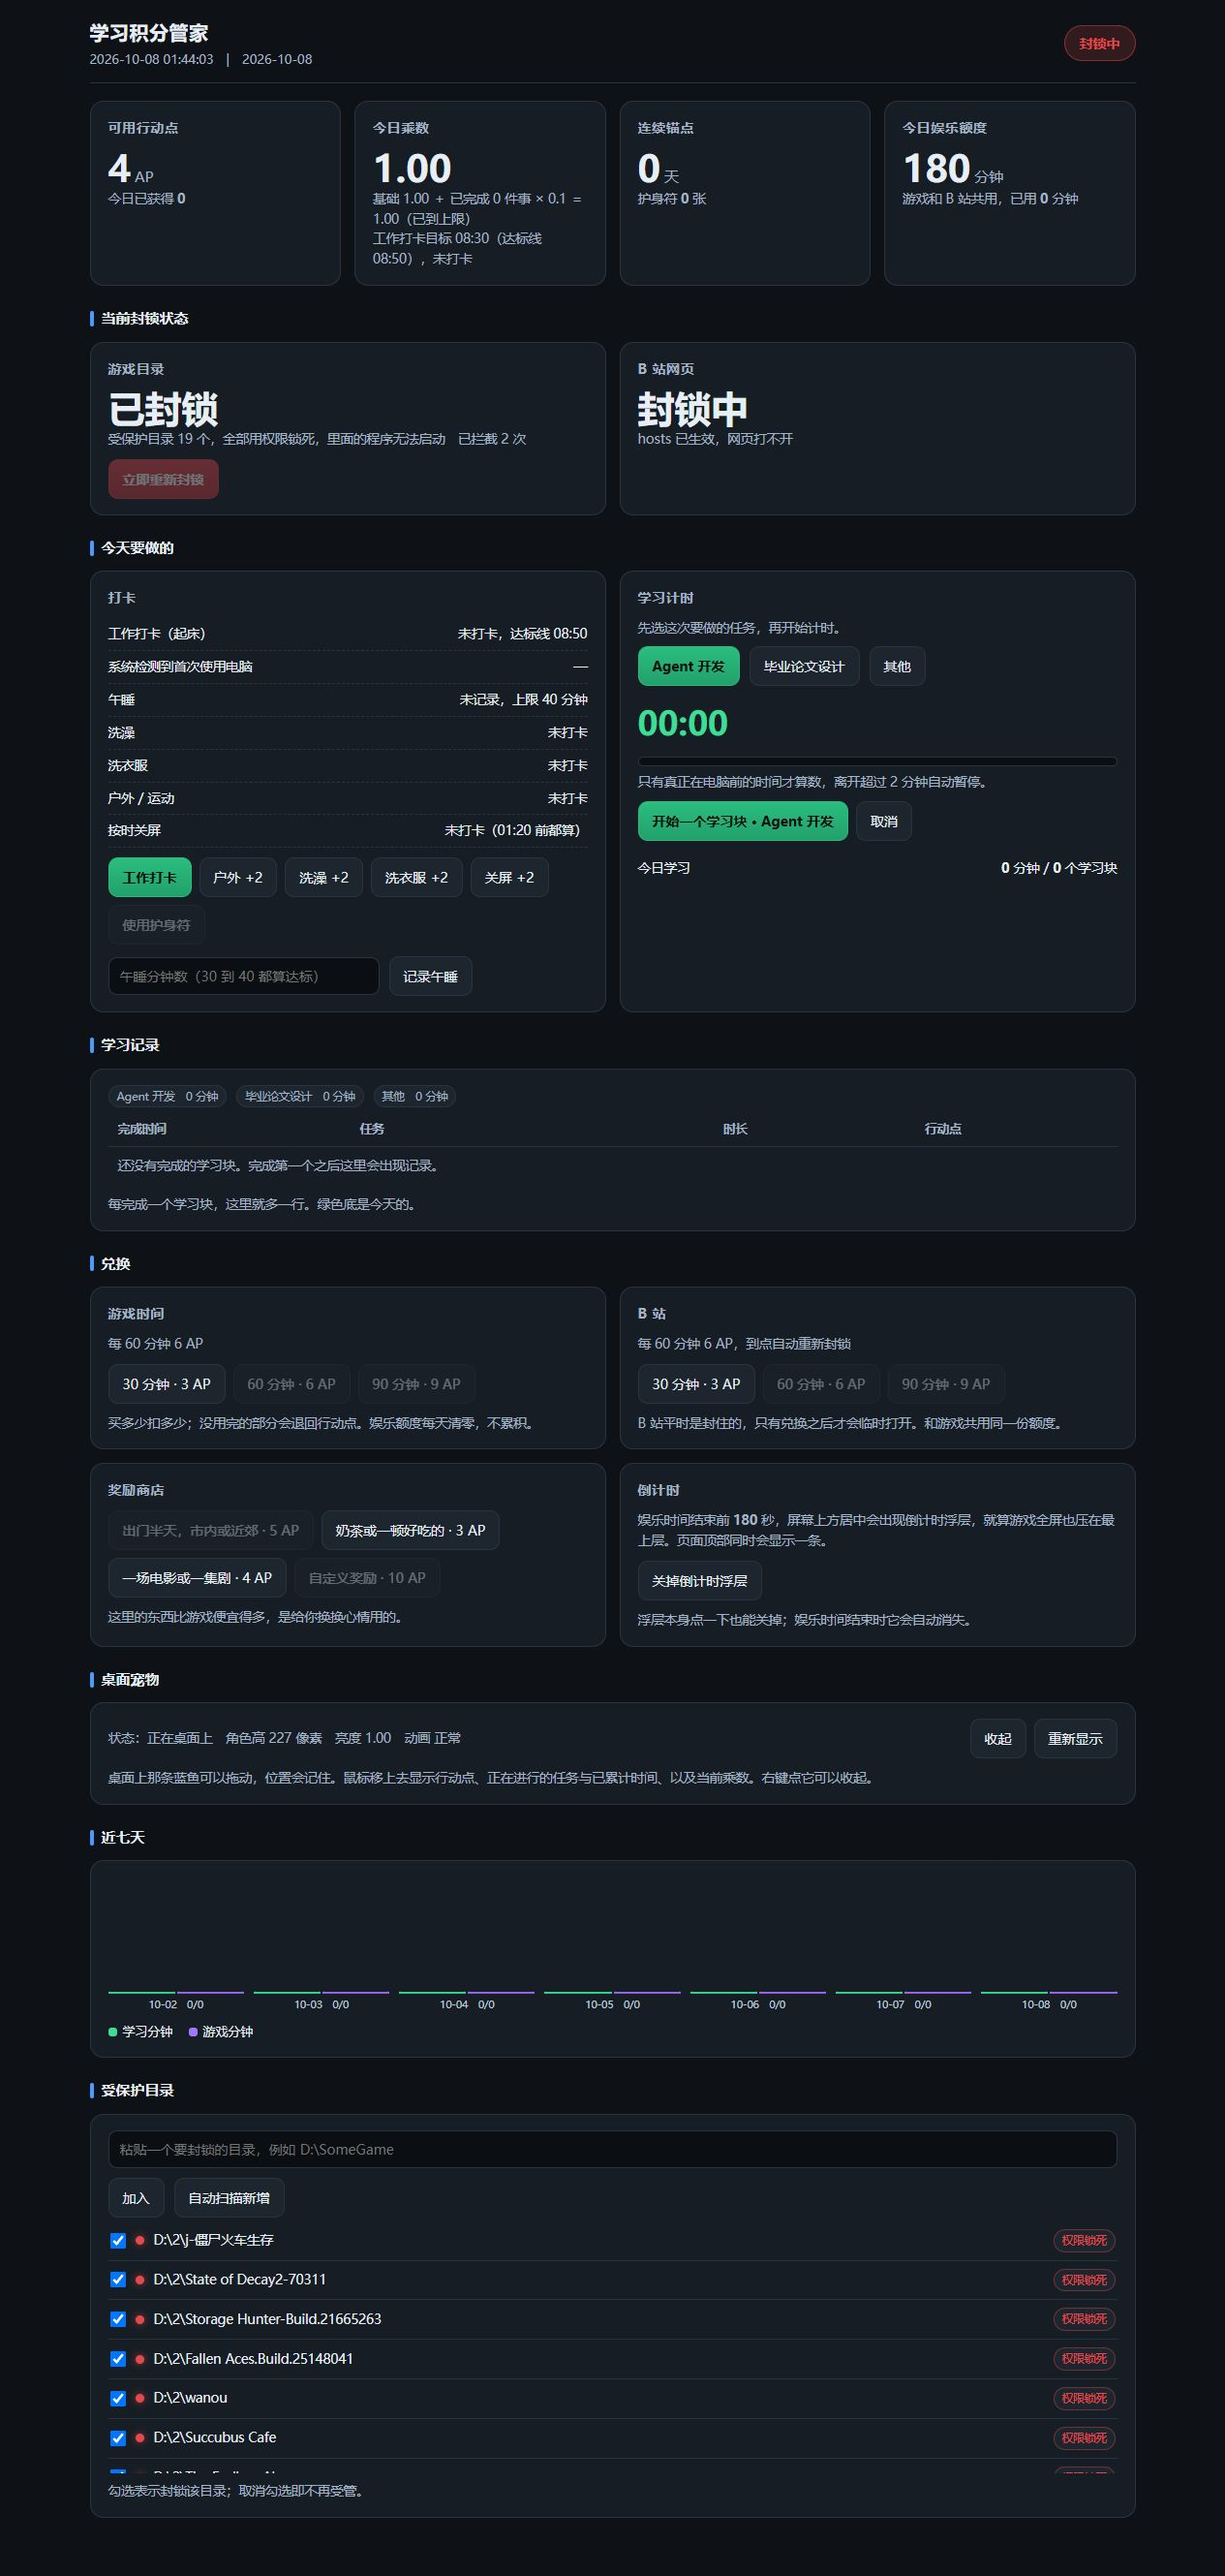
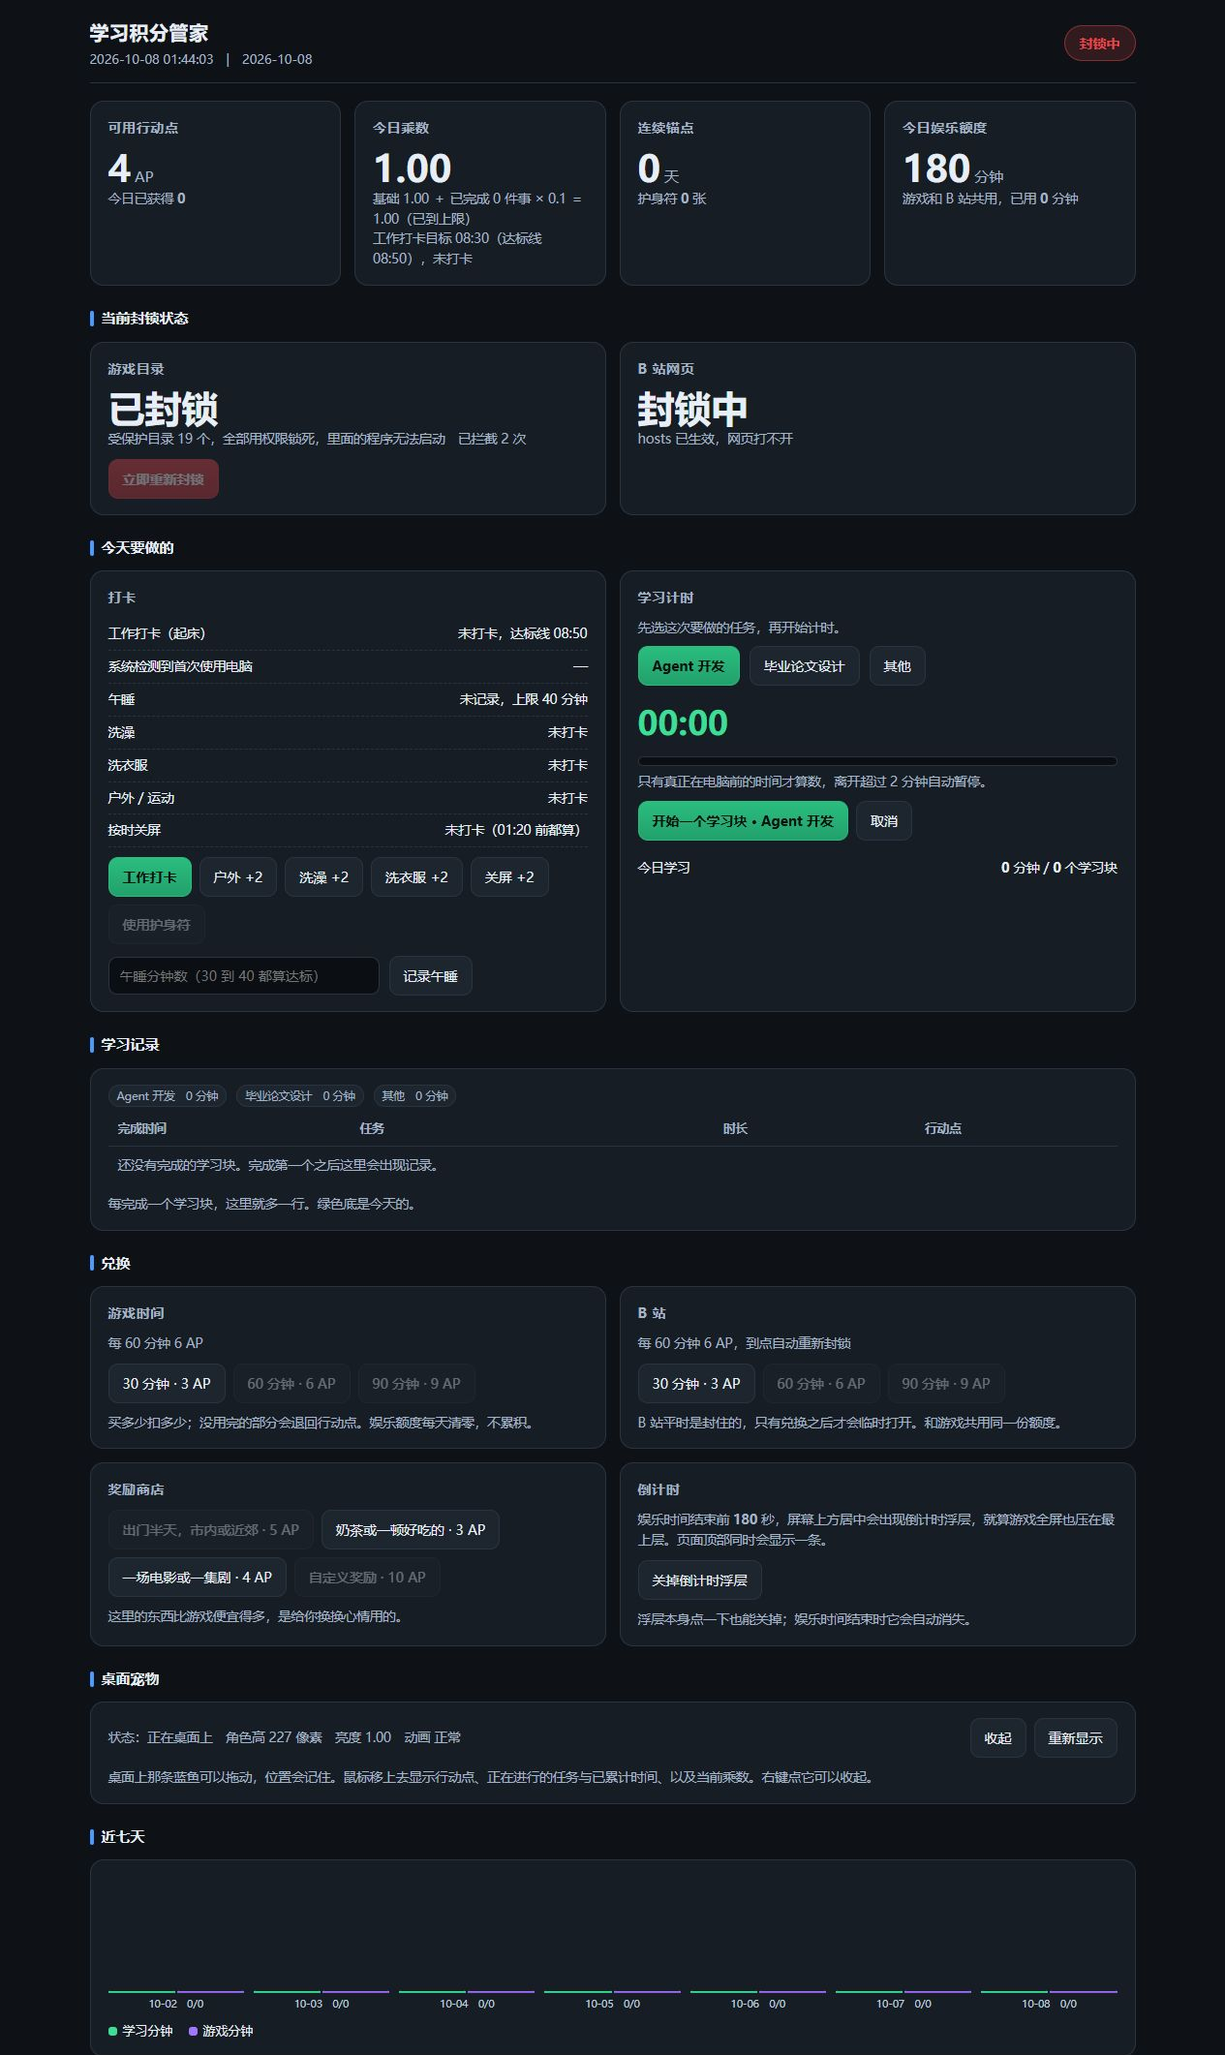
补充截图演示，并修掉两张图里的问题
新增：
- study-guard/docs/pet-actions.png：18 段动画里的 12 段动作一览
  （逐帧比对自动挑动作峰值帧，不是固定取中间帧）
- night-app-lock/docs/ui-preview.png：三屏界面示意（未到时段 / 锁定时段内 /
  拦截浮层），按 MainActivity.java 与 LockOverlay.java 的结构和文案还原，
  图中与 README 都明确标注为示意图、非真机截图

修复：
- dashboard-preview.png 实际上是个 JPEG，只是扩展名写成了 .png，已转成真 PNG；
  同时底部「受保护目录」区块把整份游戏库列了出来（config.json 已经脱敏成空，
  截图却列全了，前后矛盾），已裁掉该区块
- pet-preview.png 底部有一条调试水印（...\codex\tmp\guardtest\shot_tip.p），已裁掉

三个 README 都补上了图片引用与图注。

diff --git a/README.md b/README.md
@@ -9,6 +9,20 @@
 
 两个项目解决的是同一个问题的两端：**白天在电脑上管住游戏和 B 站，夜里在手机上管住自己**。
 
+### 学习积分管家
+
+![面板](study-guard/docs/dashboard-preview.png)
+
+![桌宠](study-guard/docs/pet-preview.png)
+
+蓝色的鱼负责盯着你：悬停显示行动点、当前任务、乘数、当天学习与娱乐时长。
+
+### 夜间应用锁
+
+![界面示意](night-app-lock/docs/ui-preview.png)
+
+<sub>应用锁那张是**界面示意图**（按源码结构还原，非真机截图）：左 = 未到时段，授权入口可见；中 = 锁定时段内，负责授权的区块自动隐藏；右 = 被拦截时盖在所有应用之上的提示浮层。</sub>
+
 ---
 
 ## 为什么是「锁」而不是「提醒」

diff --git a/night-app-lock/README.md b/night-app-lock/README.md
@@ -22,6 +22,10 @@
 
 > 为什么留「解锁 3 分钟」？完全不给出路的话，人会在别的地方找更野的路（比如提前把无障碍服务关掉）。留一个每天 3 次、3 分钟的口子，是刻意的取舍。
 
+![界面示意](docs/ui-preview.png)
+
+> 上图是**界面示意图**——按 `MainActivity.java` / `LockOverlay.java` 的结构与文案还原，不是真机截图。它想说明的是三屏的差异：左边未到时段时「安装 / 授权」区块可见；中间一进入锁定时段，该区块就自动隐藏了（`setupVisible()`），免得它变成绕锁通道；右边是被拦截时盖在所有应用之上的提示浮层。
+
 ---
 
 ## 安装

diff --git a/study-guard/README.md b/study-guard/README.md
@@ -8,6 +8,14 @@
 
 ![桌宠](docs/pet-preview.png)
 
+悬停时它弹出的状态框（行动点 / 任务 / 乘数 / 娱乐额度，最后一屏还会带 deepseek 和 GLM 的余额）：
+
+![状态框](docs/status-card-preview.png)
+
+![桌宠动作](docs/pet-actions.png)
+
+> 最后一张是桌宠 18 段动画里的 12 段（截图取自素材来源 dsh-pet 的预览帧，实际运行时按 360×270、12fps 播放）。完整清单见 `pet_anim/manifest.json`。
+
 ---
 
 ## 它到底做了什么
